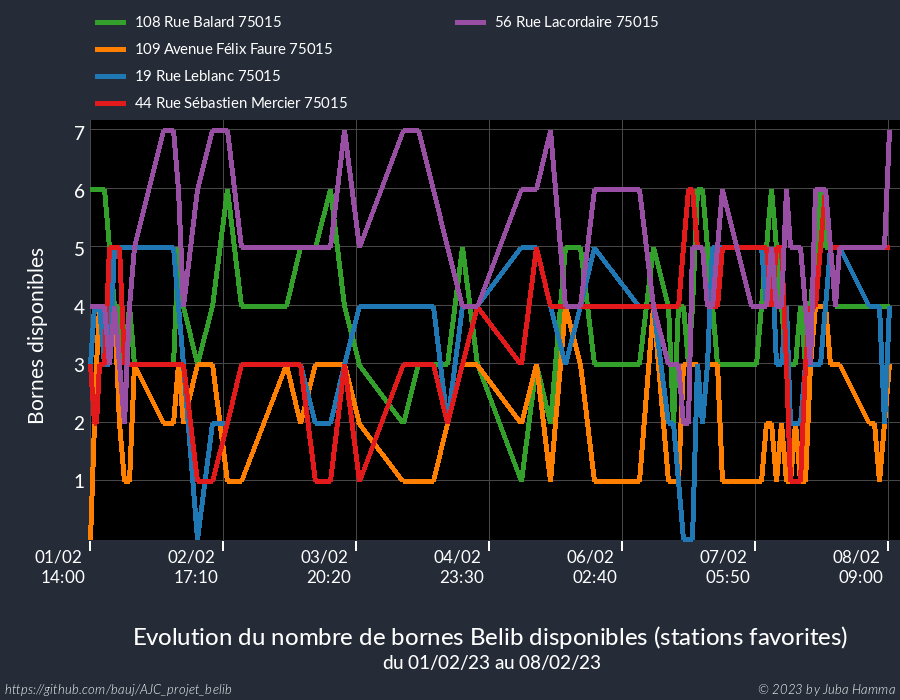
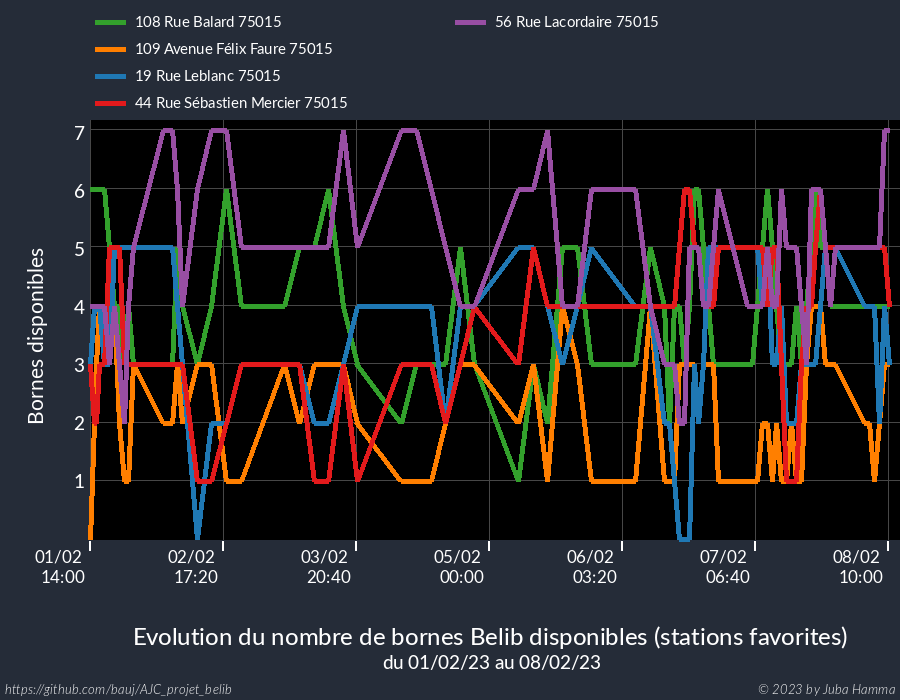
Testing AA

diff --git a/plotting_data/src/main.c b/plotting_data/src/main.c
@@ -86,7 +86,7 @@ int main(int argc, char* argv[])
     int padY[2] = {120,160};          /**< pad zone de dessin haut et bas*/
     int margin[2] = {10,10};         /**< margin gauche droite zone de dessin*/
 
-    int w_lines = 8;                 /**< epaisseur des traits*/
+    int w_lines = 5;                 /**< epaisseur des traits*/
     int ms = 6;                      /**< marker size */
 
     // Creation de la figure ------------------------------------------------------------
@@ -123,7 +123,7 @@ int main(int argc, char* argv[])
                     vect_nb_dispo[st], tableau_adresses_fav[st], &(linestyles[st]));
         Add_line_to_fig(&fig1, &(lines[st]));
     }
-
+    
     /* Make ylabel  ----------  A mettre apres update fig */
     int decalx_Y = 20, decaly_Y = 0;    
     char *ylabel = "Bornes disponibles";
@@ -187,7 +187,7 @@ int main(int argc, char* argv[])
 
 
      /* Sauvegarde du fichier png */
-    const char *filename_fig1= "fig1_disponible_w8.png";
+    const char *filename_fig1= "fig1_disponible_w5_AA.png";
     Save_to_png(&fig1, dir_figures, filename_fig1);
 
     /* printf("Résolution de l'img : %d x %d dpi\n", gdImageResolutionX(fig1.img),\

diff --git a/plotting_data/src/libs/plotter.h b/plotting_data/src/libs/plotter.h
@@ -508,9 +508,10 @@ void ImageLineEpaisseur(gdImagePtr im_fig,\
 {
                     
     gdImageSetThickness(im_fig, linestyle->w);
+    gdImageSetAntiAliased(im_fig, GetCouleur(im_fig, linestyle->color));
     if (linestyle->style == '-') {
         gdImageLine(im_fig, x1, y1,   x2,   y2,\
-                    GetCouleur(im_fig, linestyle->color));
+                   gdAntiAliased);
     } else if (linestyle->style == ':') {
         gdImageDashedLine(im_fig, x1, y1,   x2,   y2,\
                    GetCouleur(im_fig, linestyle->color));
